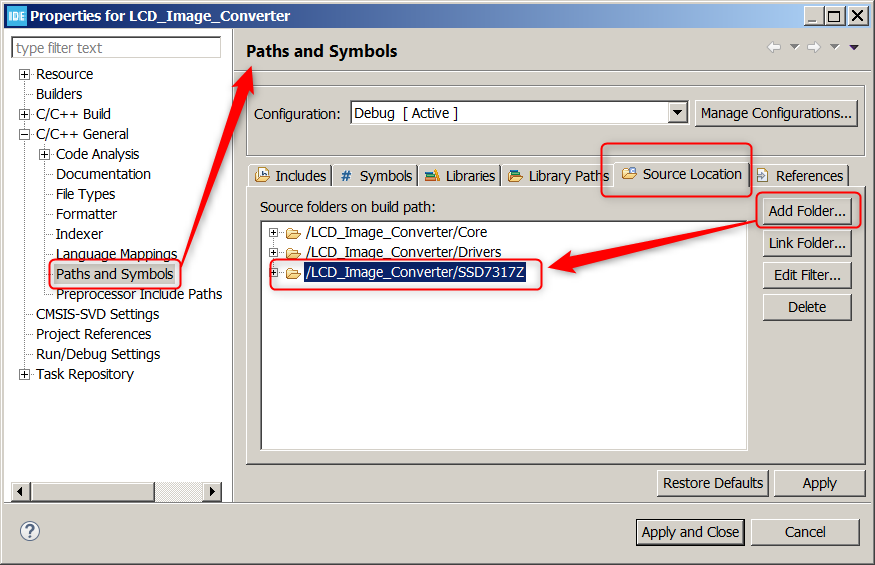
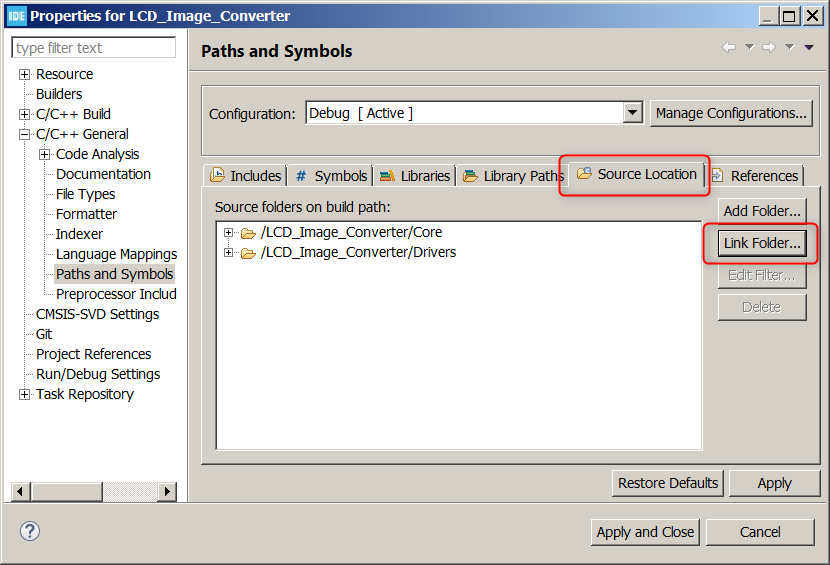
Correction to New Project Creation::Use Link Folder to in Source Location resolve

diff --git a/README.md b/README.md
@@ -503,17 +503,25 @@ Summary of the procedures are described here:
 
 * Under **Debug** configuration, enter **SSD7317Z** as the Variable name, set type as **Directory**, and browse to \SSD7317Z\Drivers folder
 
-* Repeat the same procedures for **Release** configuration. Click **Apply and Close** to exit.
+* Repeat the same procedures for **Release** configuration. Click **Apply and Close** to make new paths effective.
 
   <img src="./Images/NewProject_Step8.png" width=900>
 
-* Expand **C/C++ General > Paths and Symbols > Includes Tab**, set **${SSD7317Z}/Inc** as a new include directory. Do it for Debug and Release configurations.
+* Re-open the **Properties** dialog box, expand **C/C++ General > Paths and Symbols > Includes** tab, set **${SSD7317Z}/Inc** as a new include directory. Do it for Debug and Release configurations.
 
 <img src="./Images/NewProject_Step9.png" width=900>
 
-* Finally, select **Source Location** tab, click **Add Folder > select SSD7317Z**  to set **SSD7317Z** as the new source location for Debug and Release configurations. Click **Apply and Close**. 
+* Finally, select the **Source Location** tab and click **Link Folder...** button.
 
   <img src="./Images/NewProject_Step10.png" width=800>
+  
+  In the **New Folder** dialog box, check **Link to folder in the file system** <img src="./Images/Number_circle_44x44_1.png" width=24> checkbox, click **Variables...** button<img src="./Images/Number_circle_44x44_2.png" width=24> to open the Path Variable selection dialog box, click **SSD7317Z** <img src="./Images/Number_circle_44x44_3.png" width=24> to highlight it from the list and click **OK** <img src="./Images/Number_circle_44x44_4.png" width=24>twice to return to the **Source Location** tab.
+  
+  <img src="./Images/NewProject_Step10_1.png" width=800>
+  
+  A new source folder **./LCD_Image_Converter/SSD7317Z** is now available. Click **Apply and Close**.
+  
+  <img src="./Images/NewProject_Step10_2.png" width=800>
 
 The path for SSD7317Z should be resolved now. Add the following codes to `int main(void)` inside *USER CODE BEGIN x* and *USER CODE END x* markers.
 
